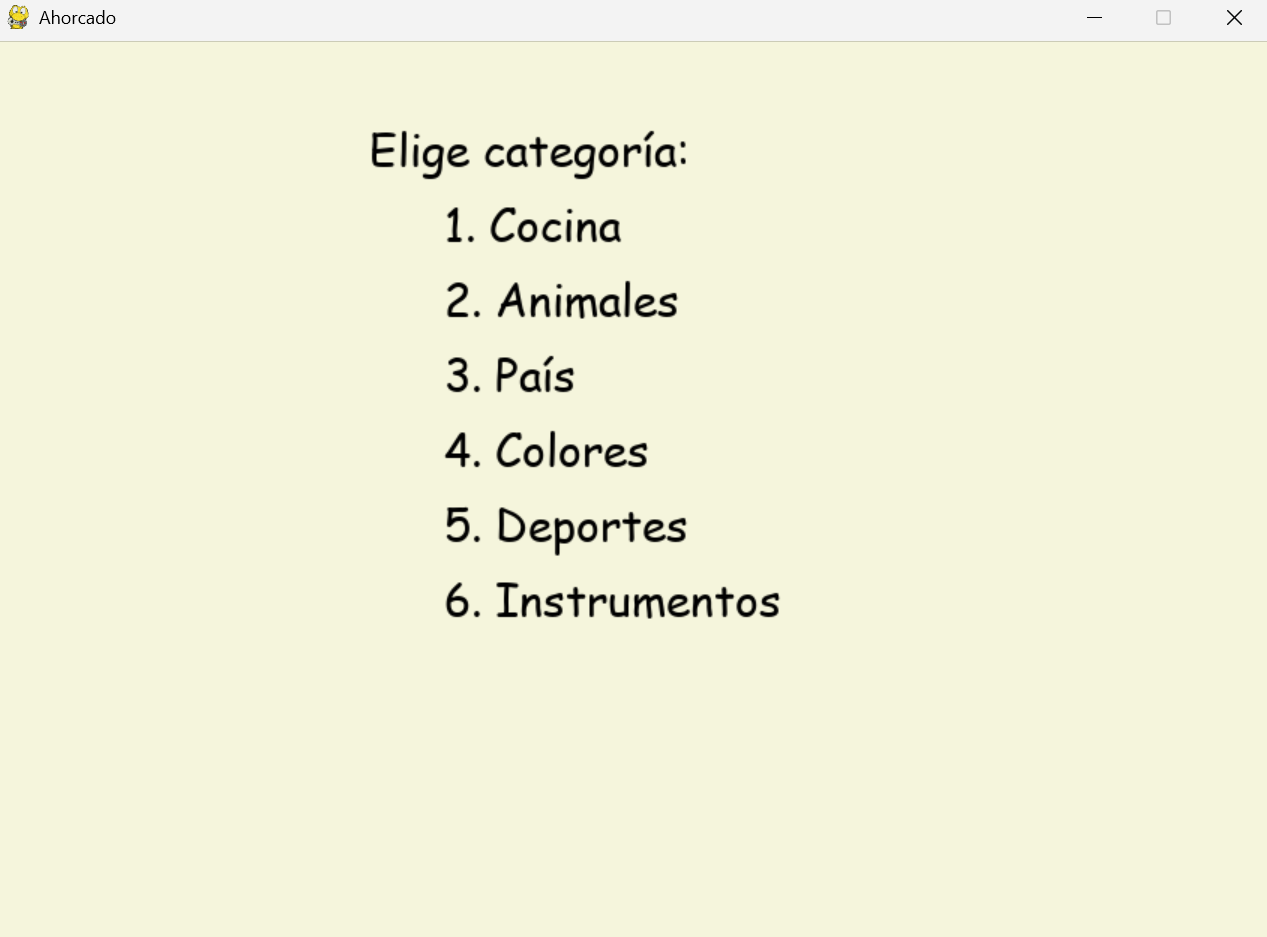
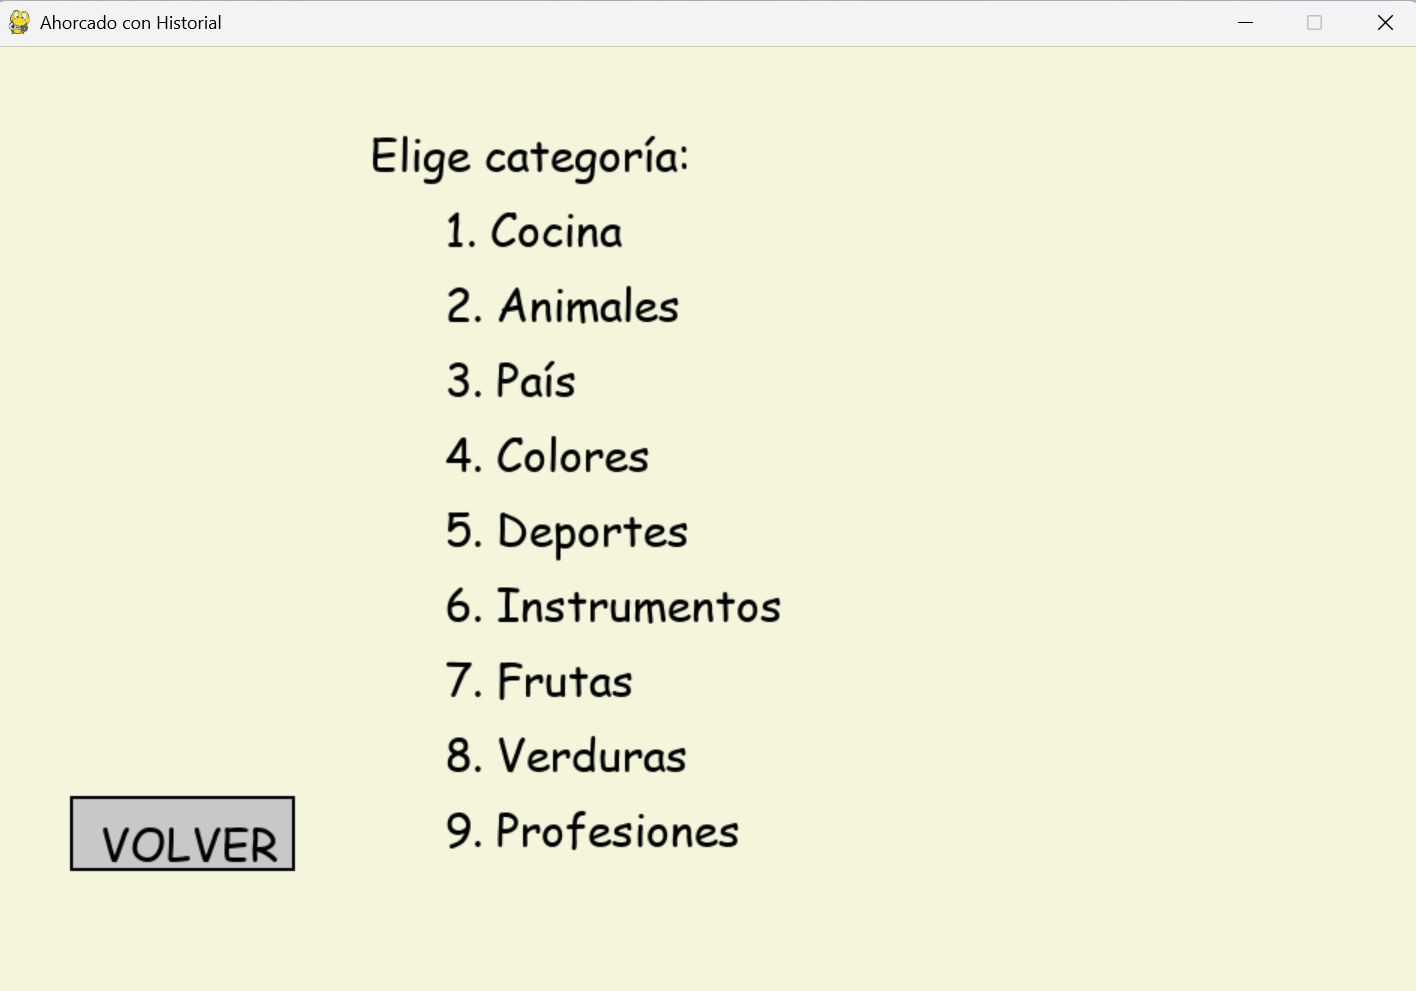
Conflicto resuelto en juegodelahorcado.py

diff --git a/juego_del_ahorcado actualizado.py b/juego_del_ahorcado actualizado.py
@@ -6,35 +6,15 @@
 #  - Presiona una letra para adivinar.
 #  - ESPACIO: cambiar de categoría y reiniciar.
 #  - R: reiniciar la misma categoría después de ganar o perder.
-HEAD
-ebb7043 (subida de proyecto)
 import pygame
 import random
 import time
 
-# Inicializa Pygame (necesario para usar sus funciones gráficas y de eventos)
 pygame.init()
 
 # =============================
 # CONFIGURACIÓN INICIAL
 # =============================
-<<<<<<< HEAD
-
-# Dimensiones de la ventana
-ANCHO, ALTO = 850, 600
-ventana = pygame.display.set_mode((ANCHO, ALTO))
-pygame.display.set_caption("Ahorcado")  # Título de la ventana
-
-# Colores RGB
-BEIGE = (245, 245, 220)
-NEGRO = (0, 0, 0)
-ROJO = (200, 0, 0)
-
-# Fuente para mostrar texto
-fuente = pygame.font.SysFont("Comic Sans MS", 30)
-
-# Diccionario con categorías y listas de palabras
-=======
 ANCHO, ALTO = 950, 650
 ventana = pygame.display.set_mode((ANCHO, ALTO))
 pygame.display.set_caption("Ahorcado con Historial")
@@ -48,7 +28,6 @@ VERDE = (0, 180, 0)
 
 fuente = pygame.font.SysFont("Comic Sans MS", 30)
 
->>>>>>> ebb7043 (subida de proyecto)
 palabras = {
     "Cocina": ["Refrigeradora", "Horno", "Sartenes", "Microondas", "Tostadora", "Licuadora"],
     "Animales": ["Elefante", "León", "Tigre", "Jirafa", "Cocodrilo", "Hipopótamo"],
@@ -61,133 +40,20 @@ palabras = {
     "Profesiones": ["Doctor", "Ingeniero", "Profesor", "Carpintero", "Arquitecto", "Abogado", "Policía", "Enfermera", "Chef", "Mecánico"]
 }
 
-<<<<<<< HEAD
-# =============================
-# FUNCIÓN: Reiniciar juego
-=======
 historial = []
 
 # =============================
 # FUNCIONES
->>>>>>> ebb7043 (subida de proyecto)
 # =============================
 def reiniciar(cat):
-    """
-    Reinicia el juego seleccionando una palabra aleatoria
-    de la categoría dada y revelando algunas letras como pistas.
-
-    Parámetros:
-        cat (str): nombre de la categoría elegida.
-    Retorna:
-        cat (str): categoría elegida.
-        palabra (str): palabra secreta en mayúsculas.
-        usadas (set): conjunto de letras ya usadas.
-        7 (int): número de intentos disponibles.
-        False (bool): estado inicial del fin de juego.
-    """
-    palabra = random.choice(palabras[cat]).upper()  # Escoge palabra aleatoria
+    palabra = random.choice(palabras[cat]).upper()
     usadas = set()
-<<<<<<< HEAD
-
-    # Determinar cuántas letras mostrar al inicio como pistas
-    if len(palabra) >= 5:
-        num_pistas = 1  # Si es larga, menos pistas
-    else:
-        num_pistas = 2  # Si es corta, más pistas
-
-    # Seleccionar posiciones al azar y agregarlas como letras usadas
-=======
     num_pistas = 1 if len(palabra) >= 5 else 2
->>>>>>> ebb7043 (subida de proyecto)
     posiciones = random.sample(range(len(palabra)), num_pistas)
     for pos in posiciones:
         usadas.add(palabra[pos])
     return cat, palabra, usadas, 7, False, time.time()
 
-<<<<<<< HEAD
-    return cat, palabra, usadas, 7, False
-
-# =============================
-# FUNCIÓN: Elegir categoría
-# =============================
-def elegir_categoria():
-    """
-    Muestra un menú para elegir la categoría antes de iniciar el juego.
-    El jugador selecciona presionando el número correspondiente.
-    """
-    categorias = list(palabras.keys())
-    seleccion = None
-
-    while seleccion is None:
-        ventana.fill(BEIGE)
-        ventana.blit(fuente.render("Elige categoría:", True, NEGRO), (250, 50))
-
-        # Mostrar lista numerada de categorías
-        for i, cat in enumerate(categorias):
-            texto = f"{i+1}. {cat}"
-            ventana.blit(fuente.render(texto, True, NEGRO), (300, 100 + i*50))
-        pygame.display.flip()
-
-        # Manejo de eventos de selección
-        for e in pygame.event.get():
-            if e.type == pygame.QUIT:
-                pygame.quit()
-                exit()
-            if e.type == pygame.KEYDOWN and e.unicode.isdigit():
-                num = int(e.unicode)
-                if 1 <= num <= len(categorias):
-                    seleccion = categorias[num - 1]
-
-    return seleccion
-
-# =============================
-# FUNCIÓN: Dibujar ahorcado
-# =============================
-def dibujar_ahorcado(superficie, intentos):
-    """
-    Dibuja el soporte y el ahorcado según el número de intentos restantes.
-    A más errores, más partes se muestran.
-    """
-    base_x = 700
-    base_y = 400
-
-    # Estructura del soporte
-    pygame.draw.line(superficie, NEGRO, (base_x - 100, base_y), (base_x + 100, base_y), 5)   # Base
-    pygame.draw.line(superficie, NEGRO, (base_x, base_y), (base_x, base_y - 300), 5)         # Poste vertical
-    pygame.draw.line(superficie, NEGRO, (base_x, base_y - 300), (base_x - 100, base_y - 300), 5) # Barra superior
-    pygame.draw.line(superficie, NEGRO, (base_x - 100, base_y - 300), (base_x - 100, base_y - 250), 5) # Cuerda
-
-    errores = 7 - intentos  # Calcular errores cometidos
-
-    # Dibujar partes del cuerpo en orden
-    if errores >= 1:  # Cabeza
-        pygame.draw.circle(superficie, NEGRO, (base_x - 100, base_y - 220), 30, 3)
-    if errores >= 2:  # Cuerpo
-        pygame.draw.line(superficie, NEGRO, (base_x - 100, base_y - 190), (base_x - 100, base_y - 120), 3)
-    if errores >= 3:  # Brazo izquierdo
-        pygame.draw.line(superficie, NEGRO, (base_x - 100, base_y - 180), (base_x - 130, base_y - 150), 3)
-    if errores >= 4:  # Brazo derecho
-        pygame.draw.line(superficie, NEGRO, (base_x - 100, base_y - 180), (base_x - 70, base_y - 150), 3)
-    if errores >= 5:  # Pierna izquierda
-        pygame.draw.line(superficie, NEGRO, (base_x - 100, base_y - 120), (base_x - 130, base_y - 80), 3)
-    if errores >= 6:  # Pierna derecha
-        pygame.draw.line(superficie, NEGRO, (base_x - 100, base_y - 120), (base_x - 70, base_y - 80), 3)  
-    if errores >= 7:  # Cuerda final (simboliza derrota)
-        pygame.draw.line(superficie, NEGRO, (base_x - 100, base_y - 250), (base_x - 100, base_y - 280), 3)
-
-# =============================
-# FUNCIÓN PRINCIPAL
-# =============================
-def main():
-    """
-    Función principal del juego.
-    Controla el flujo: elegir categoría, jugar, dibujar y reiniciar.
-    """
-    cat = elegir_categoria()
-    cat, palabra, usadas, intentos, fin = reiniciar(cat)
-
-    while True:
-=======
 def dibujar_ahorcado(superficie, intentos):
     base_x, base_y = 700, 400
     pygame.draw.line(superficie, NEGRO, (base_x - 100, base_y), (base_x + 100, base_y), 5)
@@ -215,15 +81,11 @@ def elegir_categoria():
     seleccion = None
     boton_volver = pygame.Rect(50, 500, 150, 50)
     while seleccion is None:
->>>>>>> ebb7043 (subida de proyecto)
         ventana.fill(BEIGE)
         ventana.blit(fuente.render("Elige categoría:", True, NEGRO), (250, 50))
         for i, cat in enumerate(categorias):
             ventana.blit(fuente.render(f"{i+1}. {cat}", True, NEGRO), (300, 100 + i*50))
 
-<<<<<<< HEAD
-        # Gestión de eventos
-=======
         mouse_pos = pygame.mouse.get_pos()
         color_volver = GRIS_OSCURO if boton_volver.collidepoint(mouse_pos) else GRIS
         pygame.draw.rect(ventana, color_volver, boton_volver)
@@ -231,58 +93,10 @@ def elegir_categoria():
         ventana.blit(fuente.render("VOLVER", True, NEGRO), (boton_volver.x + 20, boton_volver.y + 10))
 
         pygame.display.flip()
->>>>>>> ebb7043 (subida de proyecto)
         for e in pygame.event.get():
             if e.type == pygame.QUIT:
                 pygame.quit()
                 exit()
-<<<<<<< HEAD
-            if e.type == pygame.KEYDOWN:
-                if e.key == pygame.K_SPACE:
-                    # Cambiar categoría y reiniciar juego
-                    cat = elegir_categoria()
-                    cat, palabra, usadas, intentos, fin = reiniciar(cat)
-                elif not fin:
-                    # Convertir tecla en letra y validar
-                    letra = pygame.key.name(e.key).upper()
-                    if letra.isalpha() and len(letra) == 1 and letra not in usadas:
-                        usadas.add(letra)
-                        if letra not in palabra:
-                            intentos -= 1
-                            if intentos == 0:  # Sin intentos → perder
-                                fin = True
-                        elif all(l in usadas for l in palabra):  # Todas adivinadas → ganar
-                            fin = True
-                elif e.key == pygame.K_r:
-                    # Reiniciar la misma categoría después de terminar
-                    cat, palabra, usadas, intentos, fin = reiniciar(cat)
-
-        # Mostrar palabra con guiones y letras acertadas
-        texto = " ".join([l if l in usadas else "_" for l in palabra])
-        ventana.blit(fuente.render(f"{cat}: {texto}", True, NEGRO), (20, 150))
-
-        # Mostrar letras usadas
-        ventana.blit(fuente.render(f"Usadas: {' '.join(sorted(usadas))}", True, NEGRO), (20, 50))
-
-        # Mostrar intentos restantes
-        ventana.blit(fuente.render(f"Intentos: {intentos}", True, NEGRO), (20, 400))
-
-        # Instrucciones
-        ventana.blit(fuente.render("Presiona ESPACIO para cambiar categoría", True, NEGRO), (20, 500))
-
-        # Mostrar mensaje de fin de juego
-        if fin:
-            if intentos > 0:
-                msg = "¡Ganaste! Presiona R para reiniciar"
-            else:
-                msg = f"¡Perdiste! Era: {palabra} | Presiona R para reiniciar"
-            ventana.blit(fuente.render(msg, True, ROJO), (78, 300))
-          
-        # Dibujar ahorcado
-        dibujar_ahorcado(ventana, intentos)
-
-        # Actualizar pantalla
-=======
             if e.type == pygame.MOUSEBUTTONDOWN and e.button == 1:
                 if boton_volver.collidepoint(e.pos):
                     return None
@@ -308,7 +122,6 @@ def pantalla_historial():
         pygame.draw.rect(ventana, NEGRO, boton_volver, 2)
         ventana.blit(fuente.render("VOLVER", True, NEGRO), (boton_volver.x + 20, boton_volver.y + 10))
 
->>>>>>> ebb7043 (subida de proyecto)
         pygame.display.flip()
         for e in pygame.event.get():
             if e.type == pygame.QUIT:
@@ -425,8 +238,5 @@ def main():
             dibujar_ahorcado(ventana, intentos)
             pygame.display.flip()
 
-# =============================
-# EJECUCIÓN DEL JUEGO
-# =============================
 if __name__ == "__main__":
     main()
